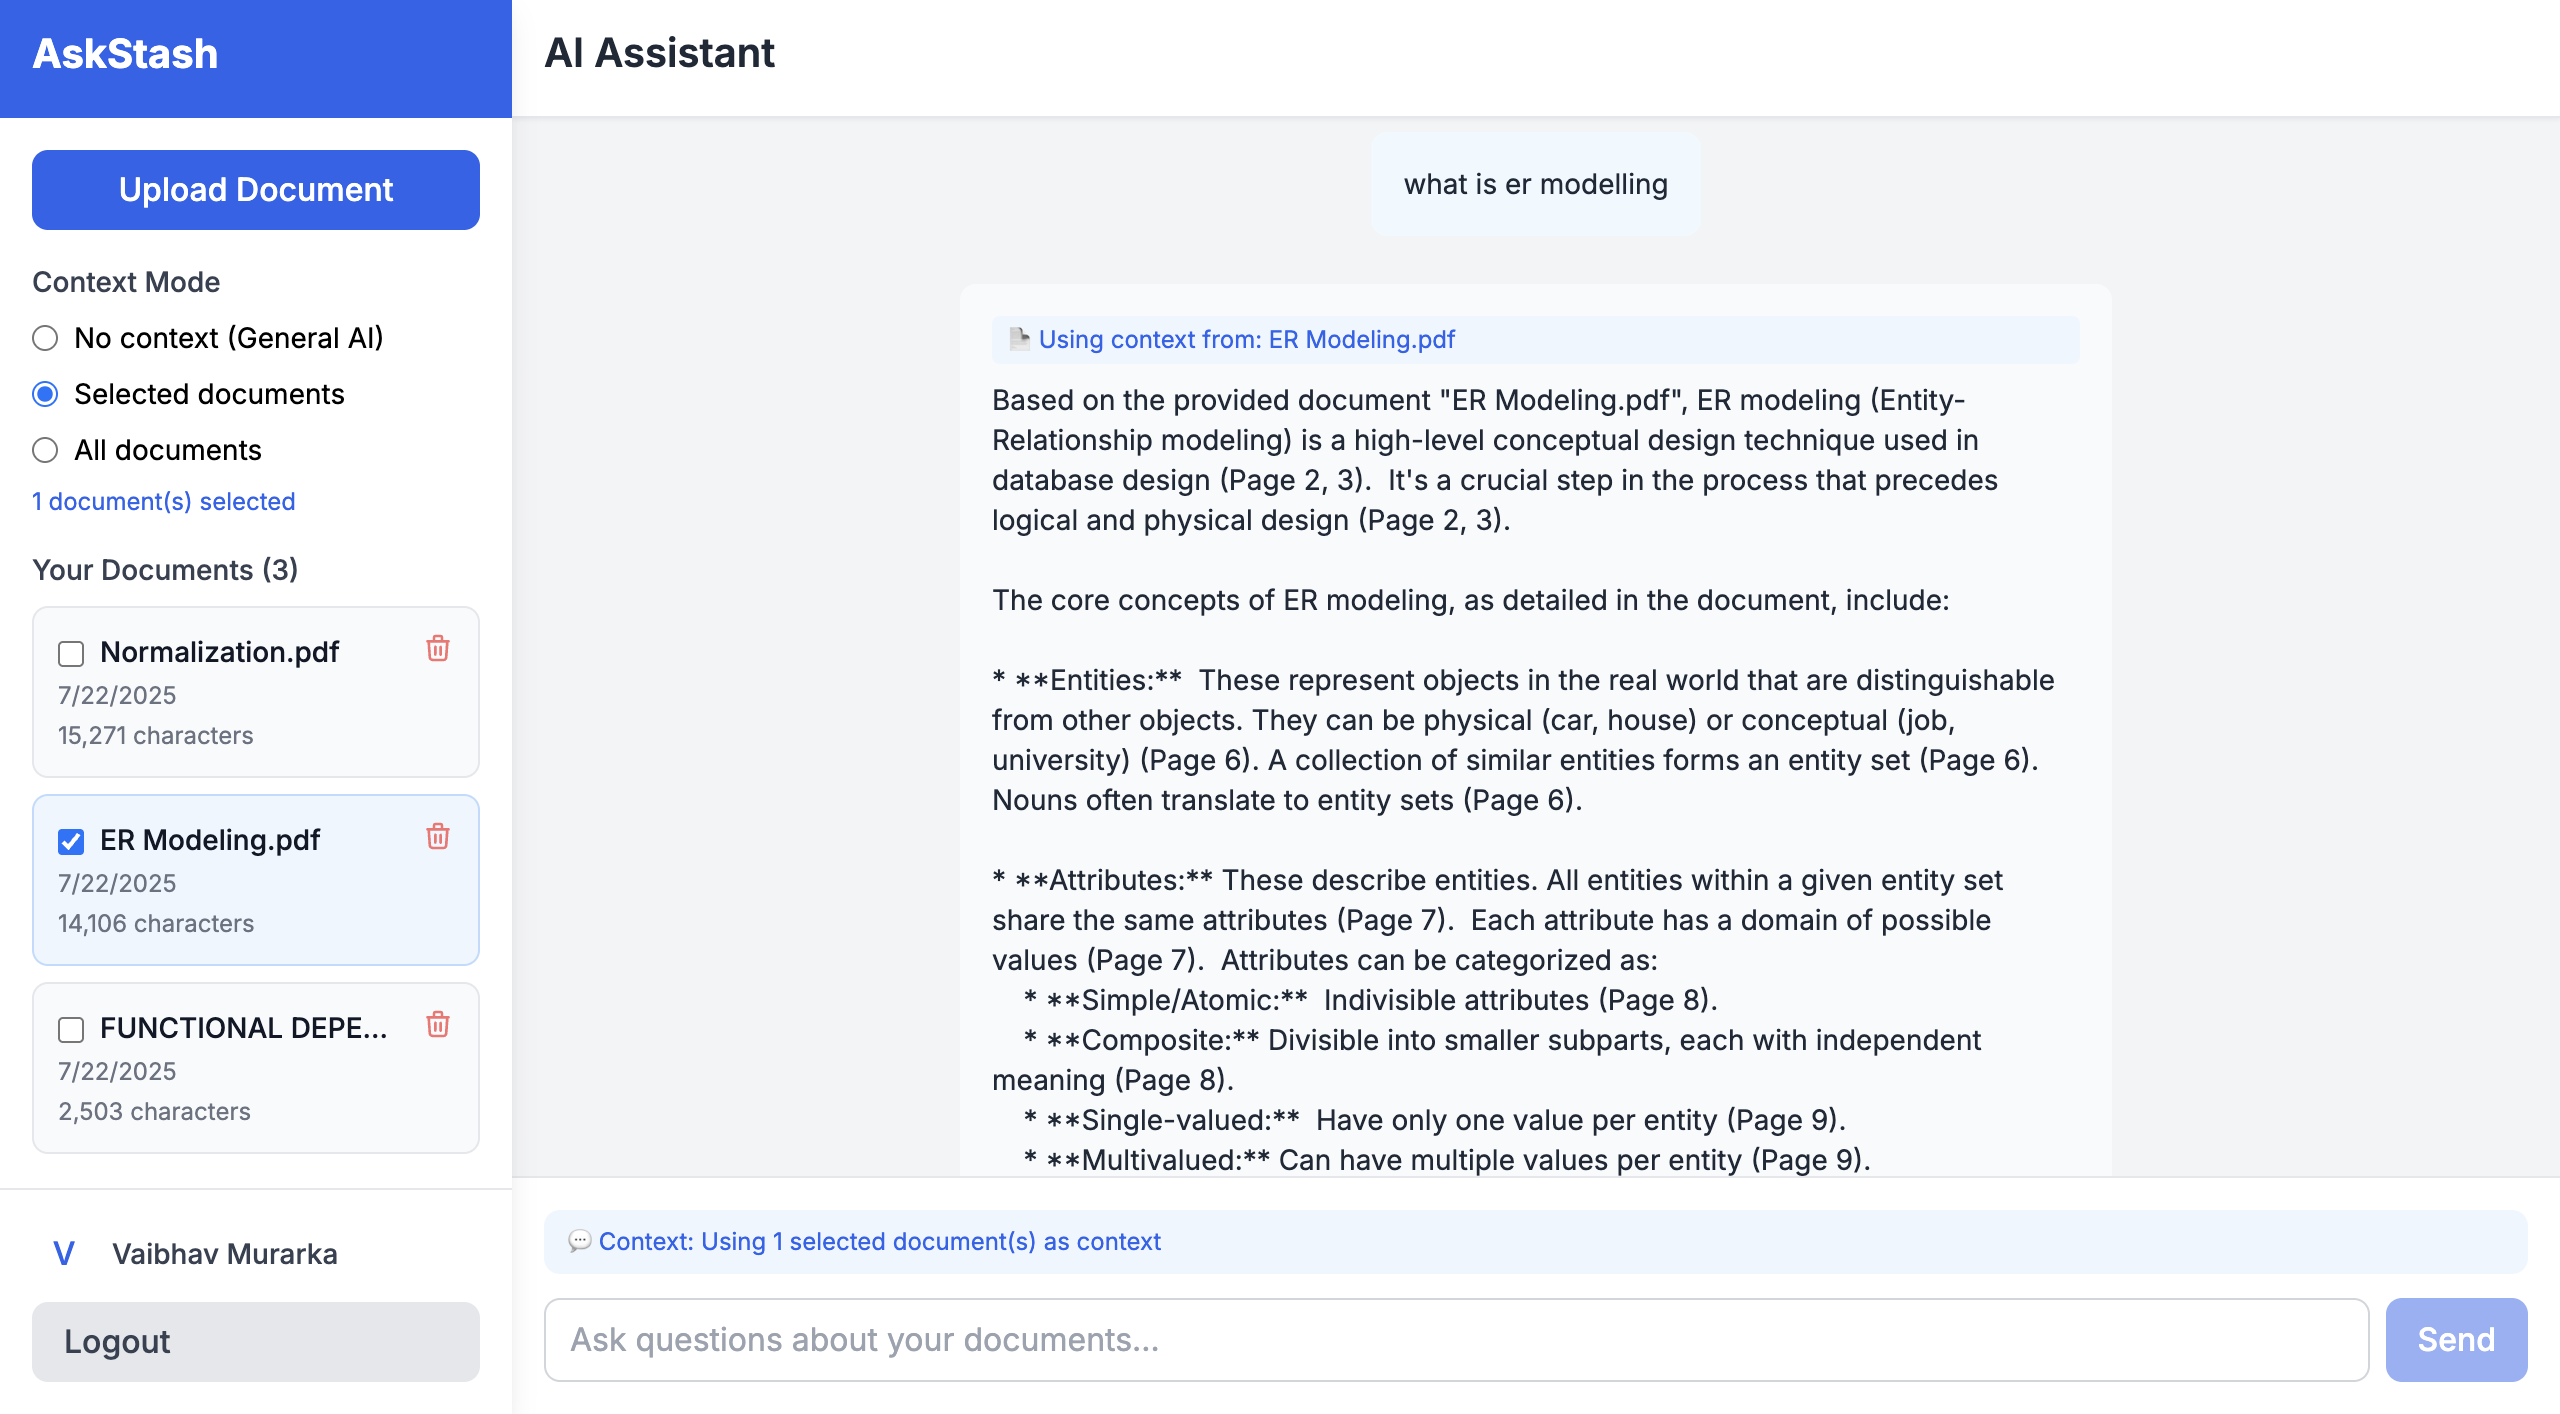
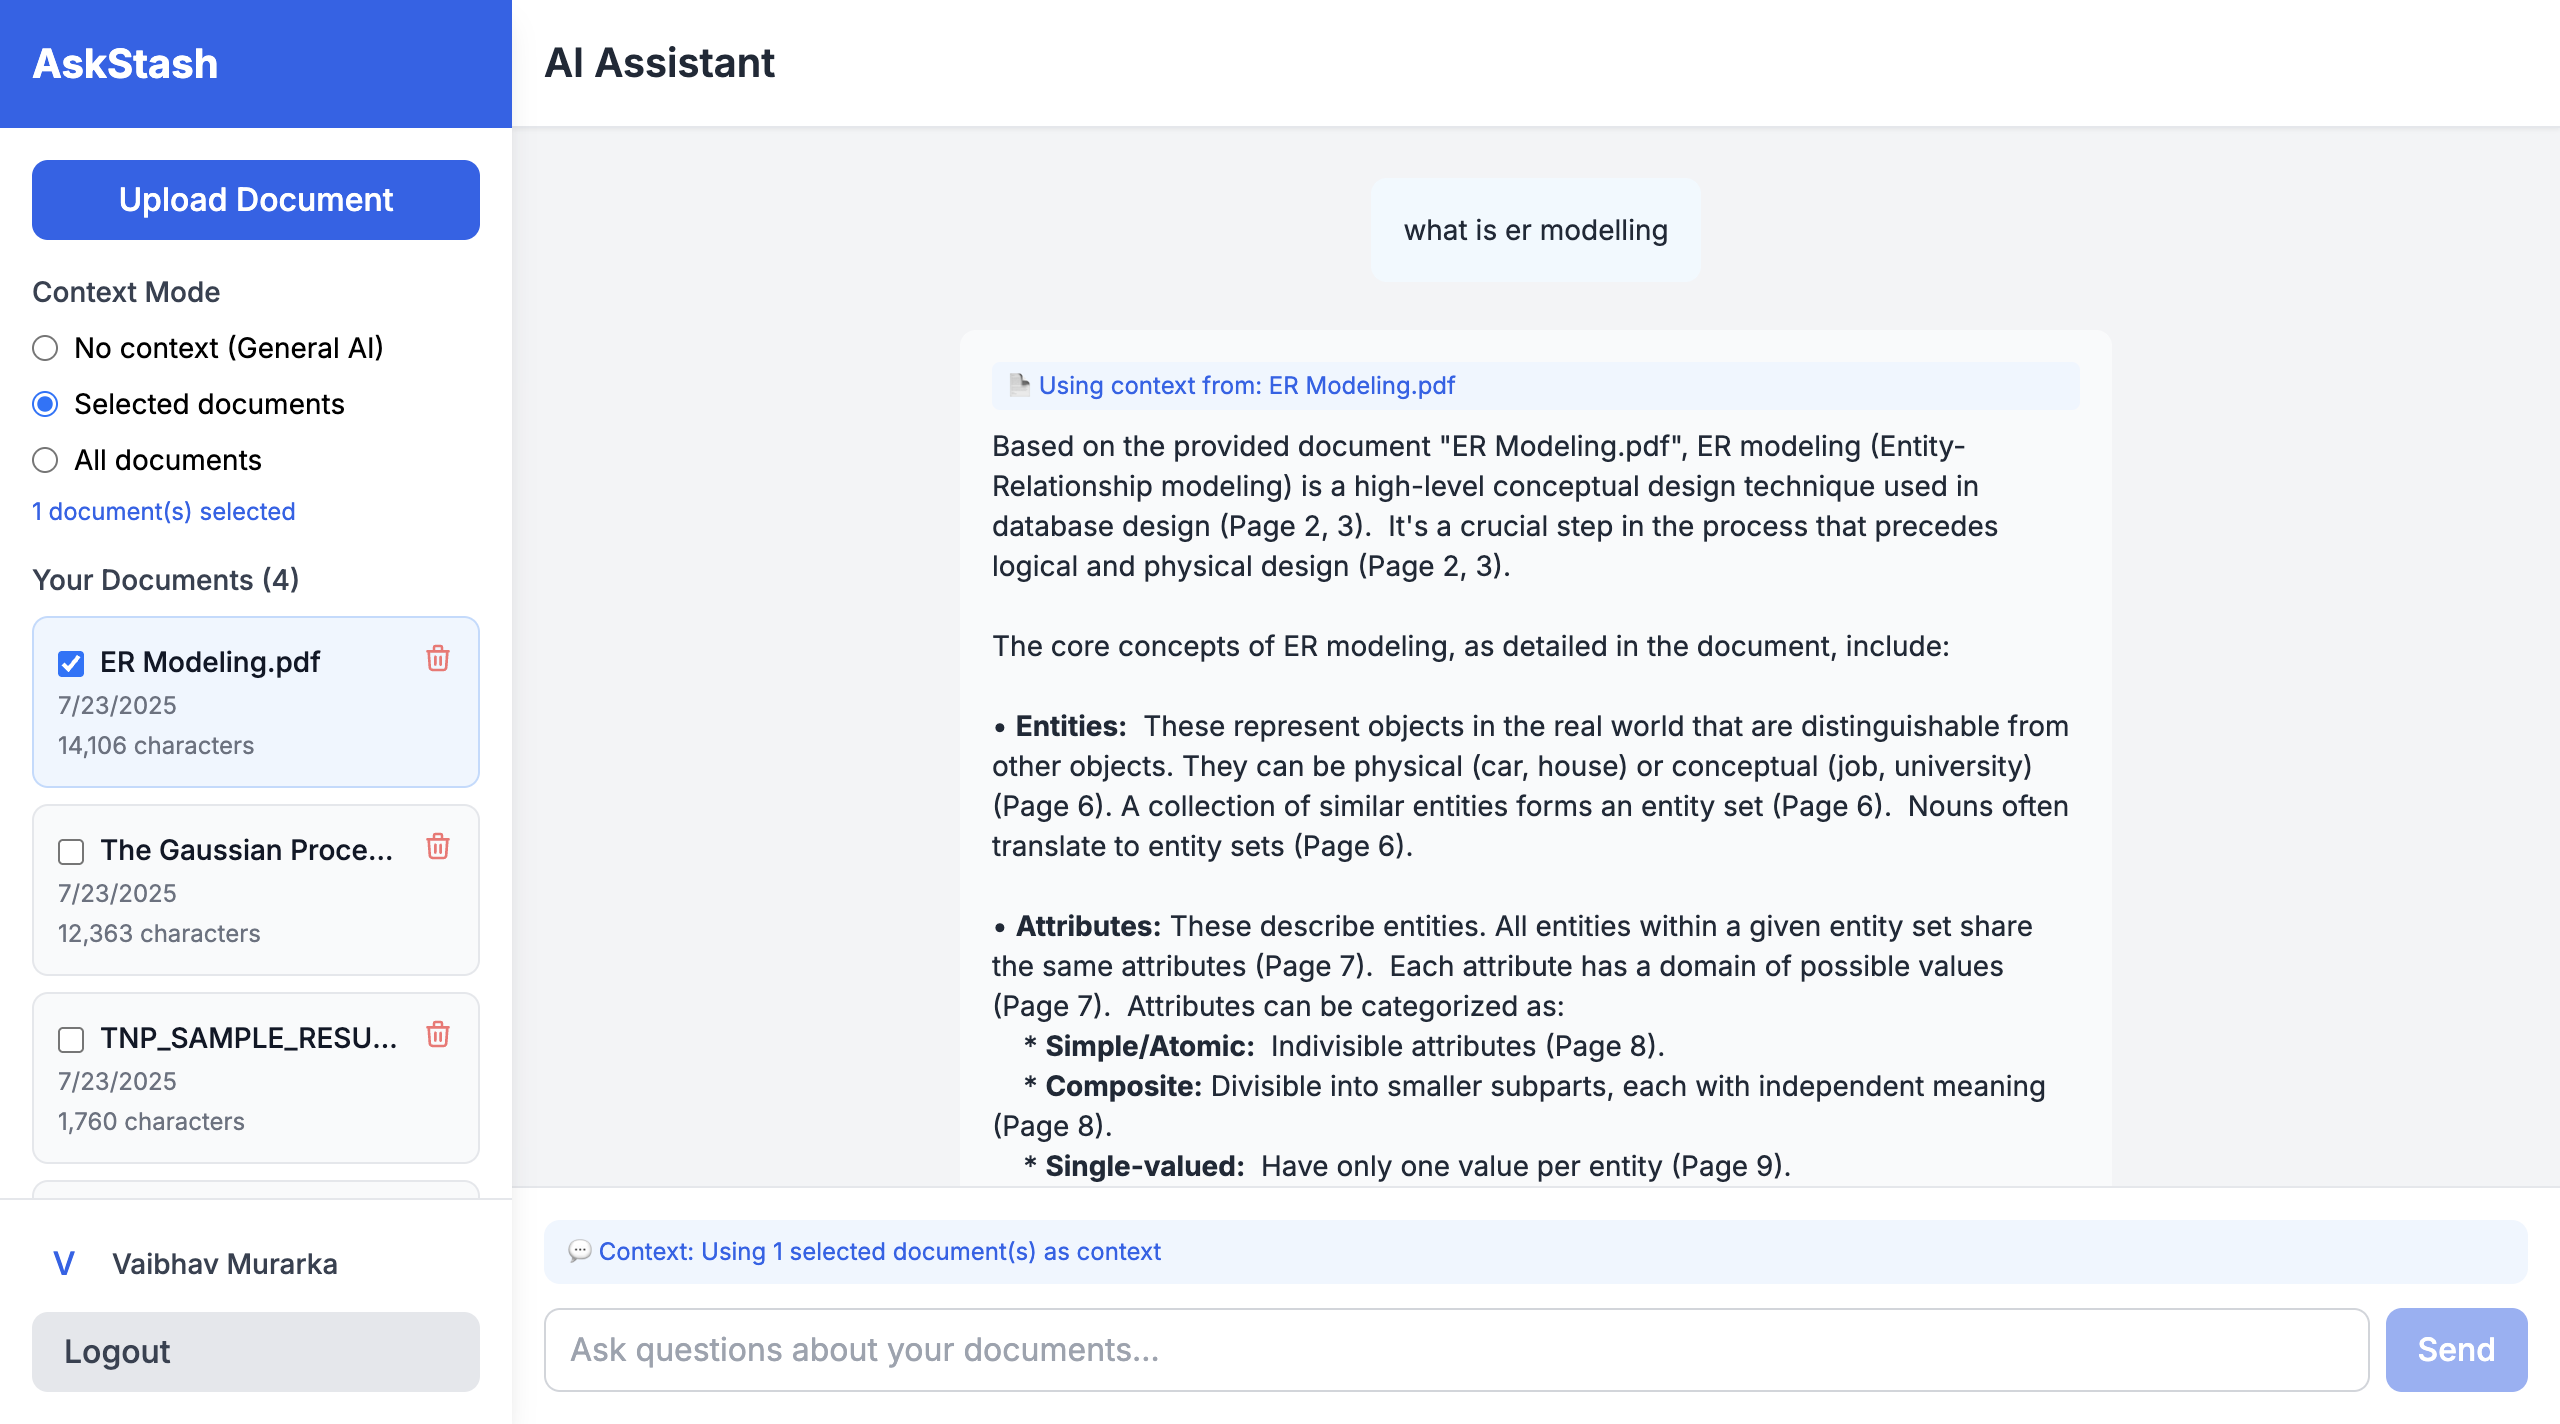
readme updated3

diff --git a/src/pages/DashboardPage.jsx b/src/pages/DashboardPage.jsx
@@ -5,6 +5,23 @@ import { chatAPI, documentAPI } from '../services/api';
 import { guestService } from '../services/guestService';
 import ConfirmationModal from '../components/ConfirmationModal';
 
+// A simple component to render text with basic Markdown formatting
+const MarkdownRenderer = ({ text }) => {
+  // First, replace **text** with <strong>text</strong> for bolding
+  let formattedHtml = text.replace(/\*\*(.*?)\*\*/g, '<strong>$1</strong>');
+  
+  // Then, replace lines starting with * with a bullet point character (•)
+  // The 'g' flag ensures all occurrences are replaced, and 'm' allows ^ to match the start of each line
+  formattedHtml = formattedHtml.replace(/^\* (.*$)/gm, '• $1');
+  
+  return (
+    <p 
+      className="text-sm text-gray-800 whitespace-pre-wrap break-words"
+      dangerouslySetInnerHTML={{ __html: formattedHtml }} 
+    />
+  );
+};
+
 const DashboardPage = () => {
   const { user, logout, isGuestMode } = useAuth();
   const navigate = useNavigate();
@@ -483,7 +500,7 @@ const DashboardPage = () => {
                           }
                         </div>
                       )}
-                      <p className="text-sm text-gray-800 whitespace-pre-wrap break-words">{message.response}</p>
+                      <MarkdownRenderer text={message.response} />
                     </div>
                   </div>
                 )}
